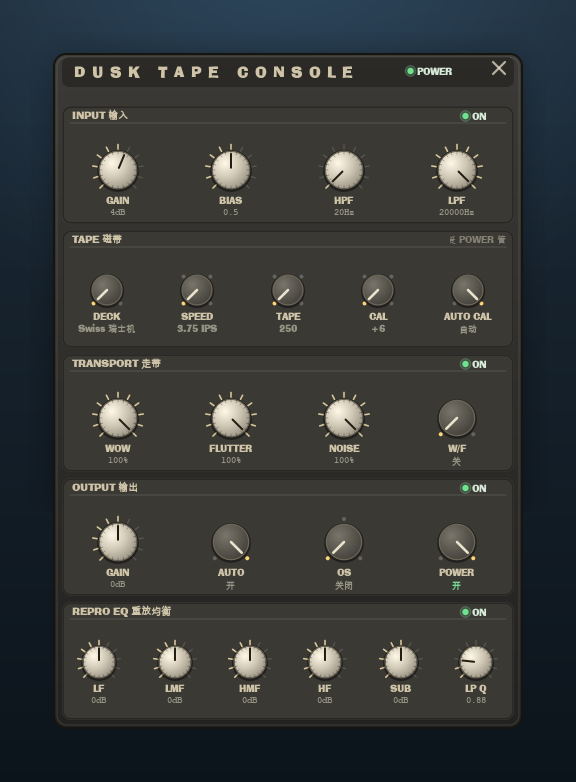
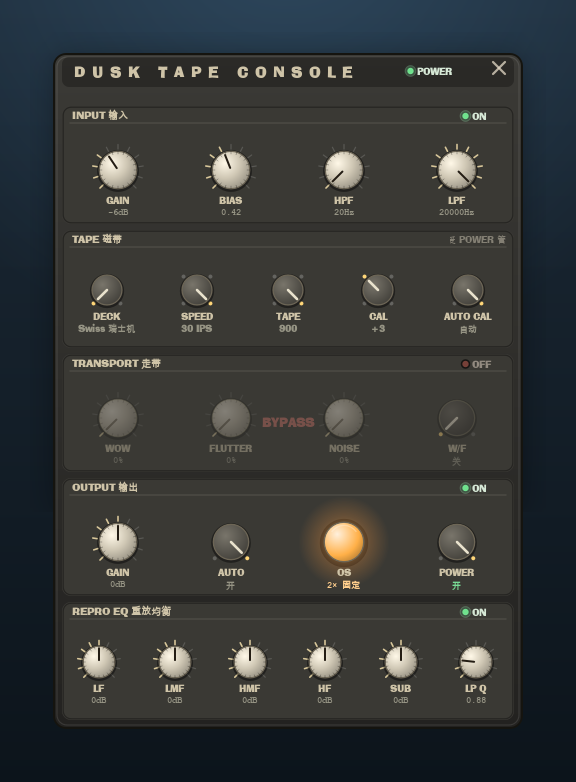
Replace the placebo OS knob with a POWER-following indicator lamp
The OS control was snake oil: the core's factorFromChoice() is hardwired to return 2
("the tuned 2x core always runs regardless of the stored choice"), setOversampling()
stores an atomic nobody reads, and applyFactor() never fires. Upstream deliberately
exposes no OS control at all. So the switch is gone and an indicator lamp takes its
place, which at least tells you something true:

- lights amber with a soft halo when POWER is on, goes dark when it is off
- label reads "2x 固定" (fixed 2x) while lit, "关闭" while dark - no pretending
- not interactive: _hit() skips it so it never steals a panel-drag click
- the DSP still receives oversampling=2 (unchanged, just no longer user-facing)

Smoke test updated to match: it now asserts the lamp is unreachable by _hit() and
verifies by pixel that the lamp centre actually brightens/darkens with POWER
(bright sum > dark sum + 80), and uses the machine selector for the switch-to-DSP
callback check that previously used oversampling.

diff --git a/app/console_window.py b/app/console_window.py
@@ -49,7 +49,9 @@ ZONES = [
     ("OUTPUT 输出", [
         ("output_gain_db", "GAIN", "knob", "dB"),
         ("auto_comp", "AUTO", "switch", ""),
-        ("oversampling", "OS", "switch", ""),
+        # OS 不是输出级功能，也**不是可调参数**：core 的 factorFromChoice() 硬编码返回 2，
+        # 上游 UI 干脆不给这个控件。这里做成随 POWER 亮灭的指示灯，不再假装它能拧。
+        ("os_lamp", "OS", "lamp", ""),
         ("active", "POWER", "switch", ""),
     ]),
     ("REPRO EQ 重放均衡", [
@@ -202,6 +204,8 @@ class ConsoleSurface(QWidget):
                 p.setOpacity(0.40)                 # 分区关掉 → 该区控件变暗
             if c.kind == "knob":
                 self._paint_knob(p, c)
+            elif c.kind == "lamp":
+                self._paint_lamp(p, c)
             else:
                 self._paint_switch(p, c)
             if off:
@@ -443,9 +447,63 @@ class ConsoleSurface(QWidget):
         p.drawText(QRectF(r.left() - 26, r.bottom() + 10, r.width() + 52, 13),
                    Qt.AlignHCenter | Qt.AlignVCenter, c.value_text(self.values.get(c.name, 0.0)))
 
+    def _paint_lamp(self, p, c: Control):
+        """指示灯：不可调，只反映状态。
+
+        OS 的过采样倍率在 core 里被 factorFromChoice() 钉死在 2×（上游 UI 也不给这个控件），
+        做成一枚随 POWER 亮灭的指示灯，既不再假装它可拧、又能一眼看出引擎在不在跑。
+        """
+        r = QRectF(c.rect)
+        cx, cy = r.center().x(), r.center().y()
+        rad = r.width() / 2.0
+        on = self.total_on
+
+        p.setPen(Qt.NoPen)                                   # 灯座凹槽
+        p.setBrush(QColor(0, 0, 0, 115))
+        p.drawEllipse(QPointF(cx, cy + 1.0), rad * 0.93, rad * 0.93)
+
+        if on:                                               # 点亮时先铺一层光晕
+            glow = QRadialGradient(QPointF(cx, cy), rad * 1.75)
+            glow.setColorAt(0.0, QColor(255, 186, 96, 165))
+            glow.setColorAt(0.55, QColor(255, 156, 64, 60))
+            glow.setColorAt(1.0, QColor(255, 140, 50, 0))
+            p.setBrush(QBrush(glow))
+            p.drawEllipse(QPointF(cx, cy), rad * 1.75, rad * 1.75)
+
+        lit = QColor(255, 176, 72) if on else QColor(92, 86, 74)   # 灯芯玻璃
+        g = QRadialGradient(QPointF(cx - rad * 0.26, cy - rad * 0.30), rad * 1.5)
+        g.setColorAt(0.0, lit.lighter(158))
+        g.setColorAt(0.55, lit)
+        g.setColorAt(1.0, lit.darker(190))
+        p.setBrush(QBrush(g))
+        p.setPen(QPen(self._color("knob_rim", "#6d6656"), 1.3))
+        p.drawEllipse(QPointF(cx, cy), rad * 0.76, rad * 0.76)
+
+        p.setBrush(Qt.NoBrush)                               # 玻璃高光
+        p.setPen(QPen(QColor(255, 255, 255, 70 if on else 28), 1.3))
+        p.drawArc(QRectF(cx - rad * 0.60, cy - rad * 0.64, rad * 1.20, rad * 1.28),
+                  40 * 16, 100 * 16)
+
+        f = QFont()                                          # 标签
+        f.setPointSizeF(7.0)
+        f.setBold(True)
+        p.setFont(f)
+        p.setPen(self._color("console_label", "#cfc4a8"))
+        p.drawText(QRectF(r.left() - 14, r.bottom() - 2, r.width() + 28, 13),
+                   Qt.AlignHCenter | Qt.AlignVCenter, c.label)
+        f2 = QFont("Courier New")                            # 状态：如实写清倍率是固定的
+        f2.setPointSizeF(6.6)
+        f2.setBold(True)
+        p.setFont(f2)
+        p.setPen(QColor(255, 206, 140) if on else QColor(126, 122, 108))
+        p.drawText(QRectF(r.left() - 30, r.bottom() + 10, r.width() + 60, 13),
+                   Qt.AlignHCenter | Qt.AlignVCenter, "2× 固定" if on else "关闭")
+
     # ---------------- 交互 ----------------
     def _hit(self, pos):
         for c in self.controls:
+            if c.kind == "lamp":
+                continue                     # 指示灯不可交互，别抢走面板拖动的点击
             if c.rect.adjusted(-10, -10, 10, 22).contains(pos.toPoint()):
                 return c
         return None

diff --git a/app/smoke.py b/app/smoke.py
@@ -276,17 +276,36 @@ def main():
     assert p.console_win.isVisible(), "底座按钮没能呼出 console 面板"
     n_ctrl = len(p.console_win.surface.controls)
     assert n_ctrl >= 18, f"console 控件太少：{n_ctrl}"
-    sw = next(c for c in p.console_win.surface.controls if c.name == "oversampling")
-    before_os = p.engine.tape_params()["oversampling"]
+    sw = next(c for c in p.console_win.surface.controls if c.name == "machine")
+    before_m = p.engine.tape_params()["machine"]
     p.console_win.surface._bump_switch(sw, +1)          # 点一下挡位旋钮
     pump(0.1)
-    assert p.engine.tape_params()["oversampling"] != before_os, \
+    assert p.engine.tape_params()["machine"] != before_m, \
         "console 挡位旋钮的操作没传到 DSP"
+    # OS 现在是**指示灯**而不是可调挡位：core 把倍率钉死在 2×，这里验它随 POWER 亮灭
+    lamp = next(c for c in p.console_win.surface.controls if c.name == "os_lamp")
+    assert p.console_win.surface._hit(QPointF(lamp.rect.center())) is None, \
+        "指示灯不该可交互（会抢面板拖动）"
+
+    def _lamp_lum(power_on):
+        p.engine.set_tape_power(power_on)
+        p.console_win.surface.set_power(power_on)
+        p.console_win.surface.repaint()
+        for _ in range(4):
+            qapp.processEvents()
+        img = p.console_win.surface.grab(lamp.rect).toImage()
+        col = img.pixelColor(lamp.rect.width() // 2, lamp.rect.height() // 2)
+        return col.red() + col.green() + col.blue()
+
+    on_lum, off_lum = _lamp_lum(True), _lamp_lum(False)
+    assert on_lum > off_lum + 80, f"OS 指示灯没随 POWER 变化：亮={on_lum} 灭={off_lum}"
+    print(f"[smoke] OS 指示灯随 POWER 亮灭 OK（亮={on_lum} 灭={off_lum}，且不可交互）")
     p.console_win.surface.param_changed.emit("input_gain_db", 9.0)   # 旋钮走一遍回调链
     pump(0.1)
     assert abs(p.engine.tape_params()["input_gain_db"] - 9.0) < 1e-6, "console 旋钮没传到 DSP"
     p.console_win.grab().save(os.path.join(shots_dir, "10_console.png"))
     print(f"[smoke] console 面板 OK（{n_ctrl} 个控件，挡位/旋钮回调均可抵达 DSP）")
+    p.engine.set_tape_power(True)                        # 复位，后续项依赖引擎在工作
 
     # ---------- 5f-2. 面板空白处必须能拖动窗口（曾因事件不冒泡只能拖 18px 边距） ----------
     surf = p.console_win.surface
